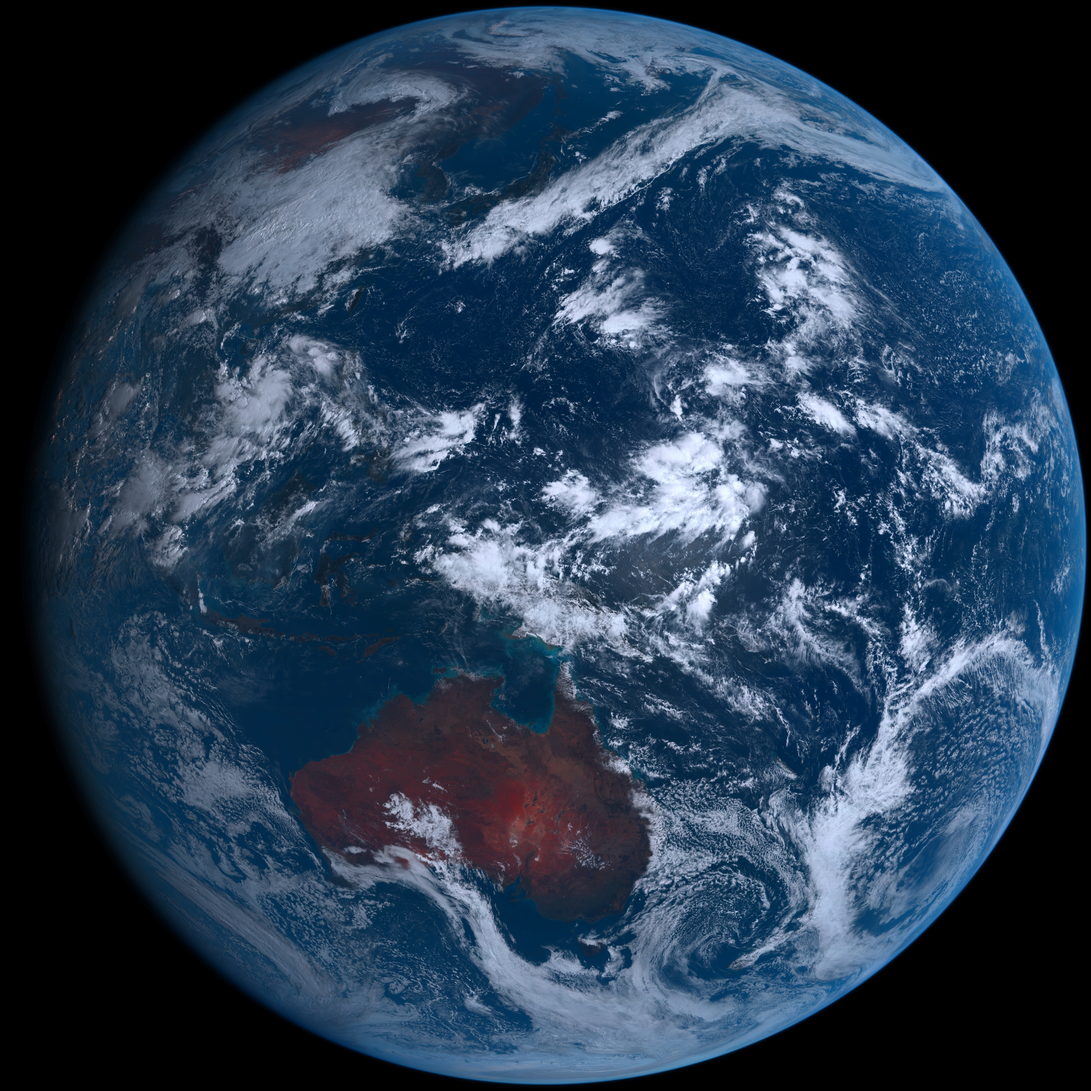
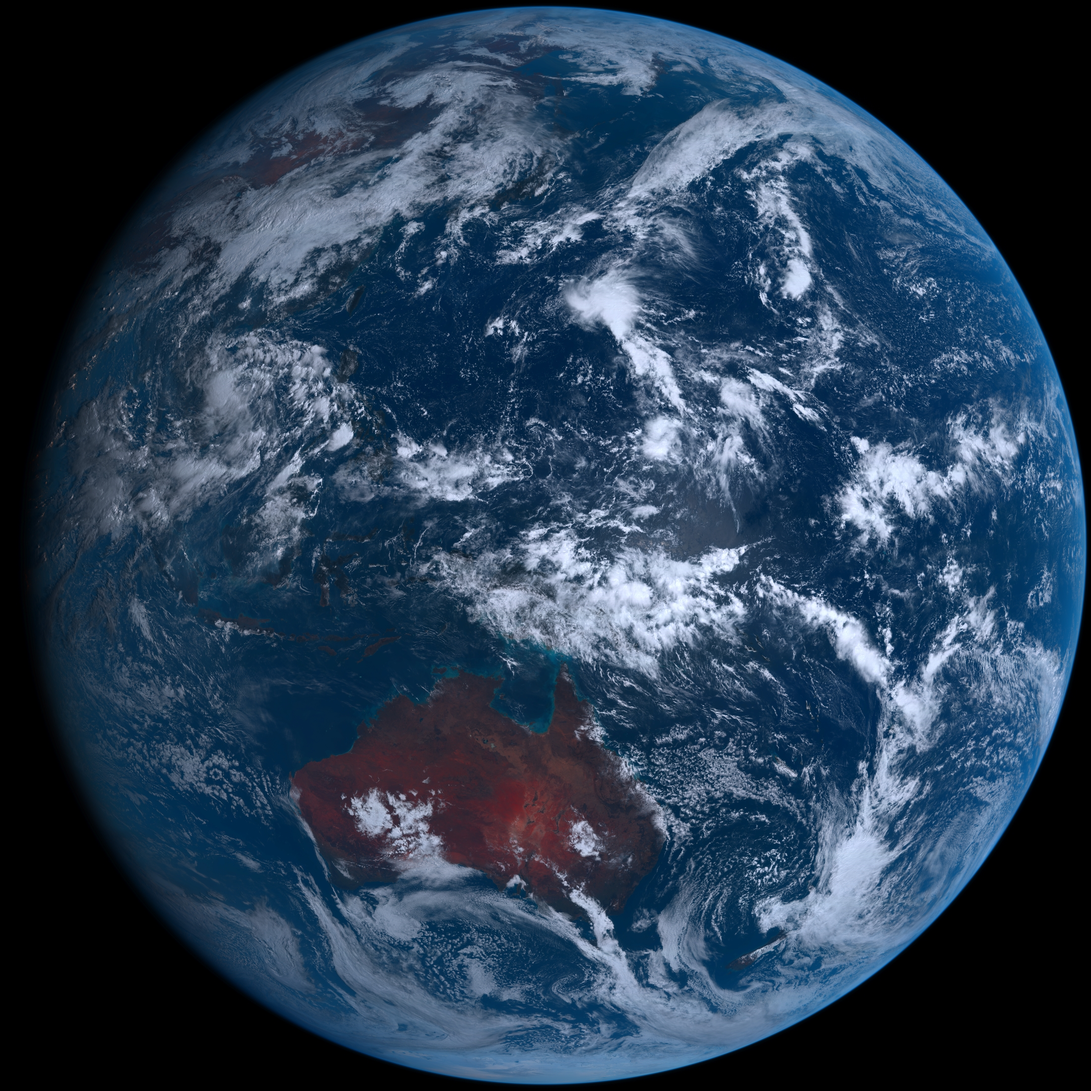
Monday 09/25/2023 03:09 +00

diff --git a/README.md b/README.md
@@ -1,12 +1,12 @@
 # ps1
 
 - ### [BingWallpaper](https://github.com/milankomaj/ps1/wiki/BingWallpaper)  [![Generate Wallpapers Github README.md](https://github.com/milankomaj/ps1/actions/workflows/GenWall.yml/badge.svg?event=schedule)](https://github.com/milankomaj/ps1/actions/workflows/GenWall.yml)
-- ##### Sunday 24/09/2023 03:07:32 +00
+- ##### Monday 25/09/2023 03:08:09 +00
 <img src="BingWallpaper/latest.jpg" width="700" height="auto" title="👉  BingWallpaper  👈">
-The Fraser River near Mount Robson, British Columbia, Canada (© phototropic/Getty Images)
+Sea otter in Bartlett Cove, Glacier Bay National Park and Preserve, Alaska (© Andrew Peacock/Tandem Stills + Motion)
 
 - ### [Himawari](https://github.com/milankomaj/ps1/wiki/Himawari) [![Generate Wallpapers Github README.md](https://github.com/milankomaj/ps1/actions/workflows/GenWall.yml/badge.svg?event=schedule)](https://github.com/milankomaj/ps1/actions/workflows/GenWall.yml) [![Video](https://github.com/milankomaj/ps1/actions/workflows/video.yml/badge.svg?event=schedule)](https://github.com/milankomaj/ps1/actions/workflows/video.yml)
-- ##### Sunday 24/09/2023 03:08:17 +00
+- ##### Monday 25/09/2023 03:08:59 +00
 <img src="Himawari/latest.jpg" width="auto" height="371" title="👉  Himawari  👈"> <img src="Himawari/pifd/himawari_pifd.webp" width="auto" height="371"/>
 
 
